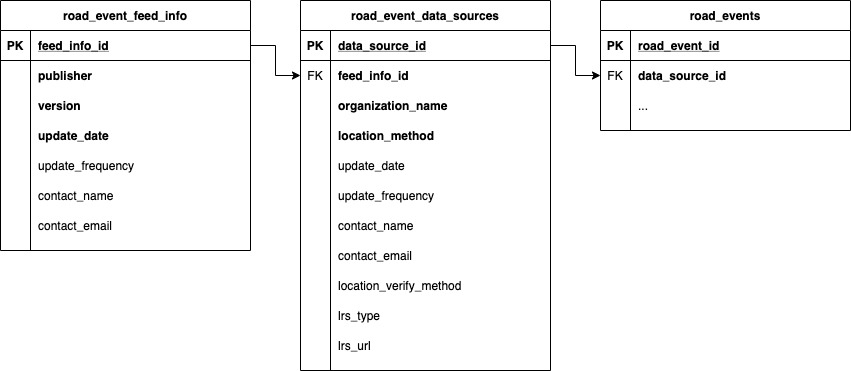
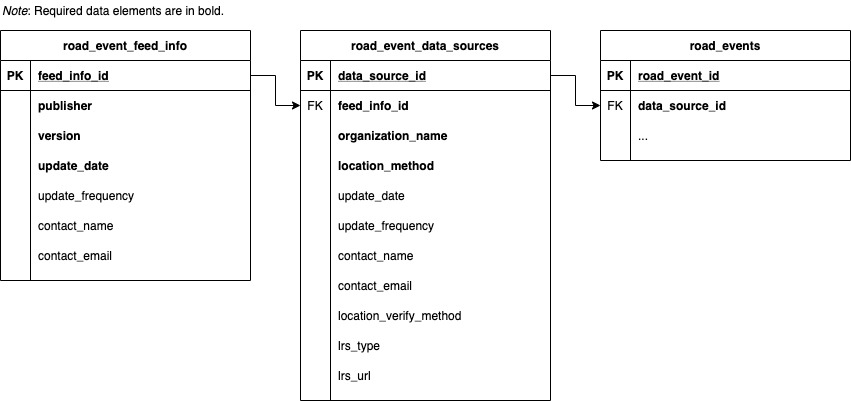
Add explanation for bolded items in ERD

diff --git a/create-feed/README.md b/create-feed/README.md
@@ -12,7 +12,7 @@ The WZDx v3.0 data feed is formatted according to the [GeoJSON](https://geojson.
 - GeoJSON formatted-data is published as text files, so there is a low technological burden of entry.
 - GeoJSON validation, mapping, and visualization tools already exist and will ease adoption by producers and consumers.
 
-A WZDx feed contains a single entry describing aspects of the feed itself (such as version) as well as one or more entries which describe a work zone's (generically: road event) characteristics along a single road segment in a single direction. 
+A WZDx feed contains a single entry describing aspects of the feed itself (such as version) as well as one or more entries which describe a work zone's (generically: road event) characteristics along a single road segment in a single direction.
 
 The tables below detail the specificaton's content and describe the data used to build the feed.
 
@@ -33,7 +33,6 @@ The tables below detail the specificaton's content and describe the data used to
 The figure below models the tables and their relationships.
 
 ## Work Zone Data Entity Relationship Diagram
-*Note*: Required data elements are in bold.
 
 ![road_event ERD](/images/road_event_erd.jpg)
 
@@ -44,7 +43,7 @@ The following WZDx feed examples include all optional fields. An example file is
 * [LineString GeoJSON Example](/create-feed/examples/linestring_example.geojson)
 
 ## JSON Schemas
-The [schemas](/create-feed/schemas) directory includes a JSON Schema for the following WZDx feed versions: 
+The [schemas](/create-feed/schemas) directory includes a JSON Schema for the following WZDx feed versions:
 
 * [WZDx v2.0 Feed](/create-feed/schemas/wzdx_v2.0_feed.json)
 * [WZDx v3.0 Feed](/create-feed/schemas/wzdx_v3.0_feed.json)
@@ -60,9 +59,9 @@ To validate data feeds and measure compliance with the v1.1 specification, the G
 GitHub is an open-source repository hosting service that allows for the storage and collaboration of data projects with version control (tracks changes and allows you to revert to previous iterations). The GitHub workflow is comprised of following steps:
 - **Creating a Branch** - Branching allows you to make a copy of your project (i.e., the master branch) so that you keep your master branch clean (i.e., free of changes). This copy lets you experiment with new features (e.g., new data fields).
 - **Adding Commits** - A commit is any change made to your project that you can track, allowing you to create a record of your work that others can use as reference.  
-- **Opening a Pull Request** - Pull requests allow you to alert others on your team to review and discuss your changes. 
+- **Opening a Pull Request** - Pull requests allow you to alert others on your team to review and discuss your changes.
 - **Discussing and Reviewing Commits** - This part of the process allows reviewers on your team or the DAVI Data Team check that the spec is properly implemented (e.g., that data types are correctly specified in the JSON schema).
-- **Merging to Master Branch** - Once your commits have been reviewed and approved, you can push your changes to merge with the master branch. 
+- **Merging to Master Branch** - Once your commits have been reviewed and approved, you can push your changes to merge with the master branch.
 
 A more in-depth [tutorial is available here](https://guides.github.com/introduction/flow/).
 

diff --git a/spec-content/README.md b/spec-content/README.md
@@ -1,15 +1,15 @@
 # WZDx Specification Content
-The WZDx specification uses a relational model to manage data structure. It defines distinct entities (called tables or objects) which contain the data content (called fields or properties) of each entity. The relationship between these entities describes how the data within each is related and how the feed should be built. These entities are found in the [data-tables](/spec-content/data-tables) directory. 
+The WZDx specification uses a relational model to manage data structure. It defines distinct entities (called tables or objects) which contain the data content (called fields or properties) of each entity. The relationship between these entities describes how the data within each is related and how the feed should be built. These entities are found in the [data-tables](/spec-content/data-tables) directory.
 
 Some fields within a data table are restricted to a defined enumeration of values. These enumerations are found in the [enumerated-types](/spec-content/enumerated-types) directory.
 
 ## Data Tables
-The WZDx specification data content is organized into distinct entities which are represented by tables. Each table is described by its own file in the [data-tables](/spec-content/data-tables) directory and represents a distinct entity, such as a road event, a lane, or the information about a feed. All pieces of data that describe that entity are included within the table. Tables are related using a foreign key, which is an ID field that points to the primary ID field (primary key) of a different table. This relational structure indicates how to store data as well as how the feed output should be built from tables. 
+The WZDx specification data content is organized into distinct entities which are represented by tables. Each table is described by its own file in the [data-tables](/spec-content/data-tables) directory and represents a distinct entity, such as a road event, a lane, or the information about a feed. All pieces of data that describe that entity are included within the table. Tables are related using a foreign key, which is an ID field that points to the primary ID field (primary key) of a different table. This relational structure indicates how to store data as well as how the feed output should be built from tables.
 
 The relationships between tables is shown visually using an Entity Relationship Diagram (ERD).
 
 ### Entity Relationship Diagram
-The Entity Relationship Diagram (ERD) below indicates the relationship between the data tables. **Required** fields are represented in bold.
+The Entity Relationship Diagram (ERD) below indicates the relationship between the data tables.
 
 ![Entity Relationship Diagram](/images/road_event_erd.jpg)
 
@@ -88,7 +88,3 @@ Field Name | Table | Enumerated Type | Notes
 `type` | [lanes](/spec-content/data-tables/lanes.md) | [Lane Type](/spec-content/enumerated-types/derived-from-its-standards/lane_type.md) | Enumeration adapted from TMDD LaneRoadway, updated in WZDx v3.0
 `type_name` | [types_of_work](/spec-content/data-tables/types_of_work.md) | [Work Type Name](/spec-content/enumerated-types/work_type_name.md) | Enumeration created in WZDx v2.0
 `vehicle_impact` | [road_events](/spec-content/data-tables/road_events.md) | [Vehicle Impact](/spec-content/enumerated-types/vehicle_impact.md) | Enumeration created in WZDx v2.0
-
-
-
-
